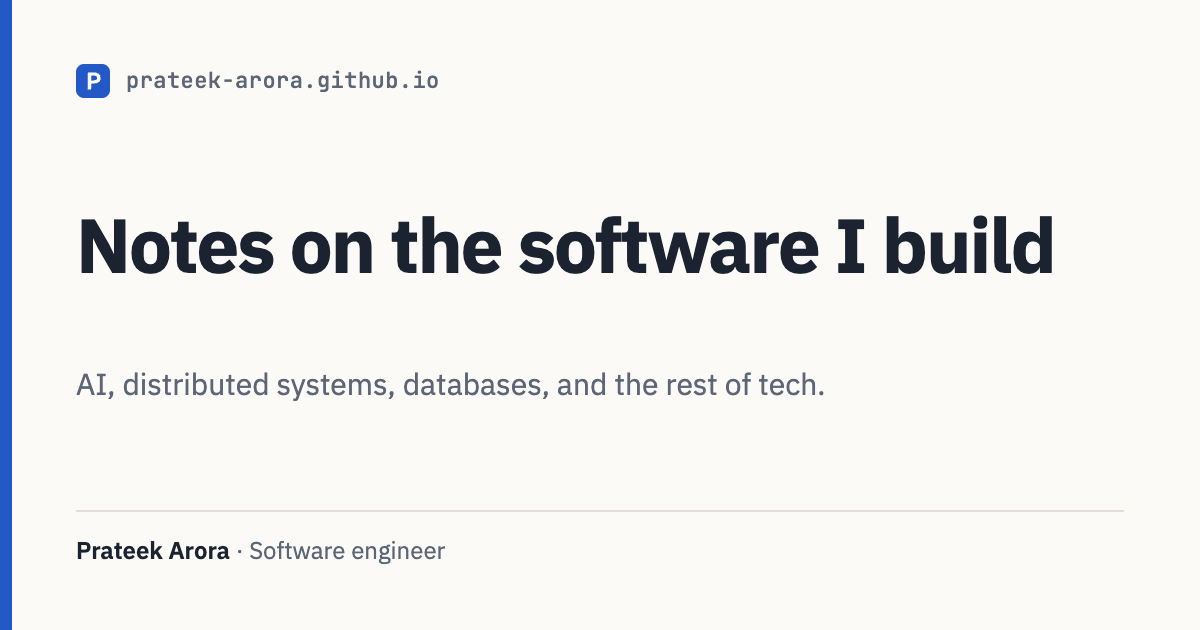
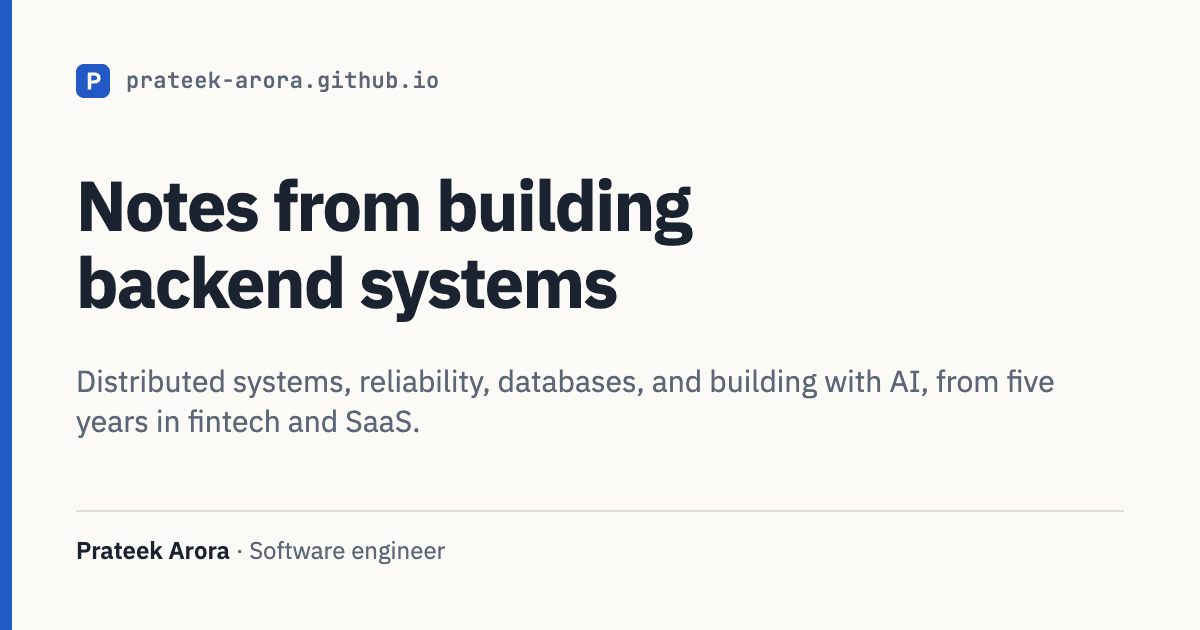
Rewrite the home and About pages around five years of backend work
The intro, About page and preview card now describe backend and distributed systems,
reliability, databases and AI, with PgLens as the current project. LinkedIn joins the profile
links, and the footer says views are my own.

Changed region(s): [[0.0617, 0.2714, 0.8942, 0.5127], [0.0617, 0.573, 0.8942, 0.6937]]

diff --git a/_layouts/post.html b/_layouts/post.html
@@ -17,7 +17,7 @@ layout: default
     {%- if page.pglens %}
     <p>I'm building <a href="https://github.com/Prateek-Arora/pglens">PgLens</a>, an open-source tool that finds the Postgres queries costing you the most time, suggests an index, and measures whether it helped.</p>
     {%- endif %}
-    {%- assign share = site.links | where_exp: "l", "l.name != 'GitHub'" %}
+    {%- assign share = site.links | where: "share", true %}
     <p>New posts come out on the <a href="{{ '/feed.xml' | relative_url }}">RSS feed</a>{% if share.size > 0 %}, and I share them on {% for l in share %}{% unless forloop.first %}{% if forloop.last %} and {% else %}, {% endif %}{% endunless %}<a href="{{ l.url }}" rel="me">{{ l.name }}</a>{% endfor %}{% endif %}.</p>
   </aside>
   {%- if page.previous or page.next %}

diff --git a/_layouts/home.html b/_layouts/home.html
@@ -2,7 +2,8 @@
 layout: default
 ---
 <section class="intro">
-  <h1>I'm a software engineer. I write about AI, distributed systems, databases, and whatever I'm building or learning next.</h1>
+  <h1>I build backend systems for a living, and write about how they work and how they fail.</h1>
+  <p class="lede">I'm Prateek Arora, a software engineer with five years of backend-leaning full-stack work in fintech and SaaS: APIs, payments and risk, 0-to-1 features, migrations and performance. Here I write about distributed systems, reliability, databases, and building with AI.</p>
   {% include links.html %}
 </section>
 

diff --git a/assets/site.css b/assets/site.css
@@ -93,8 +93,9 @@ main { padding-block: 3.5rem 4rem; }
 .intro h1 {
   font-size: clamp(1.6rem, 1.2rem + 1.6vw, 2.1rem);
   line-height: 1.25; letter-spacing: -.02em; font-weight: 600;
-  margin: 0 0 1.25rem; text-wrap: balance;
+  margin: 0 0 1rem; text-wrap: balance;
 }
+.lede { color: var(--muted); font-size: 1.125rem; line-height: 1.65; margin: 0 0 1.25rem; }
 .project {
   display: grid; gap: .35rem;
   margin: 2.75rem 0 3.5rem; padding: 1.4rem 1.5rem;

diff --git a/_layouts/default.html b/_layouts/default.html
@@ -17,7 +17,7 @@
 </main>
 <footer class="site-footer wrap">
   {% include links.html %}
-  <p>© {{ site.time | date: '%Y' }} {{ site.author.name }}. No cookies or trackers on this site.</p>
+  <p>© {{ site.time | date: '%Y' }} {{ site.author.name }}. Views are my own, not my employer's. No cookies or trackers.</p>
 </footer>
 </body>
 </html>

diff --git a/about.md b/about.md
@@ -2,19 +2,38 @@
 layout: page
 title: About
 permalink: /about/
-description: "I am Prateek Arora, a software engineer. I write about AI, distributed systems, databases, and the things I build."
+description: "I'm Prateek Arora, a software engineer. I write about backend and distributed systems, reliability, databases, and building with AI."
 ---
 
-I'm Prateek Arora, a software engineer. I write about what I build and what I learn along the
-way: AI, distributed systems, databases, and the rest of tech.
+I'm Prateek Arora, a software engineer in Bengaluru. I've spent five years on backend-leaning
+full-stack work in fintech and SaaS, mostly Java and Spring Boot, Node.js, and React with
+TypeScript.
 
-Right now I'm building [PgLens](https://github.com/Prateek-Arora/pglens), an open-source advisor
-that finds the queries costing a PostgreSQL database the most time and measures whether an index
-really helped. So the first posts lean towards Postgres. They won't all be.
+These days I work on a greenfield risk API in Java and Spring Boot that partners call in real
+time, where latency budgets, retries, caching and failure modes are the daily work. I also build
+React micro-frontends and mentor engineers on testing and code review.
+
+Before that I built a payment-reminders system from zero for an SMB billing platform with more
+than 10 million users, re-architected a desktop app's build to halve its size, and led an
+AngularJS to Angular migration for a U.S. freight-logistics platform. I started as an intern and
+was promoted to engineer within five months.
+
+Outside work I'm building [PgLens](https://github.com/Prateek-Arora/pglens), an open-source
+advisor that finds the queries costing a PostgreSQL database the most time and measures whether
+an index really helped.
+
+## What I write about
+
+- **Distributed systems and reliability:** timeouts, retries, circuit breakers, caches, and what
+  actually breaks in production.
+- **Databases:** PostgreSQL internals, indexes, query plans, connection poolers.
+- **AI in engineering:** retrieval, evaluating LLM output, and working with coding agents.
+- **Frontend at scale,** when it's interesting: micro-frontends and build performance.
 
 When a post gives a number, the method and the data are linked next to it.
 
-Code is on [GitHub](https://github.com/Prateek-Arora). New posts come out on the
-[RSS feed](/feed.xml), and I share them on
+Views here are my own, not my employer's.
+
+Find me on [LinkedIn](https://www.linkedin.com/in/aroraprateeka), [GitHub](https://github.com/Prateek-Arora),
 [Bluesky](https://bsky.app/profile/aroraprateek.bsky.social) and
-[Mastodon](https://mastodon.social/@prateekarora).
+[Mastodon](https://mastodon.social/@prateekarora), or follow the [RSS feed](/feed.xml).
